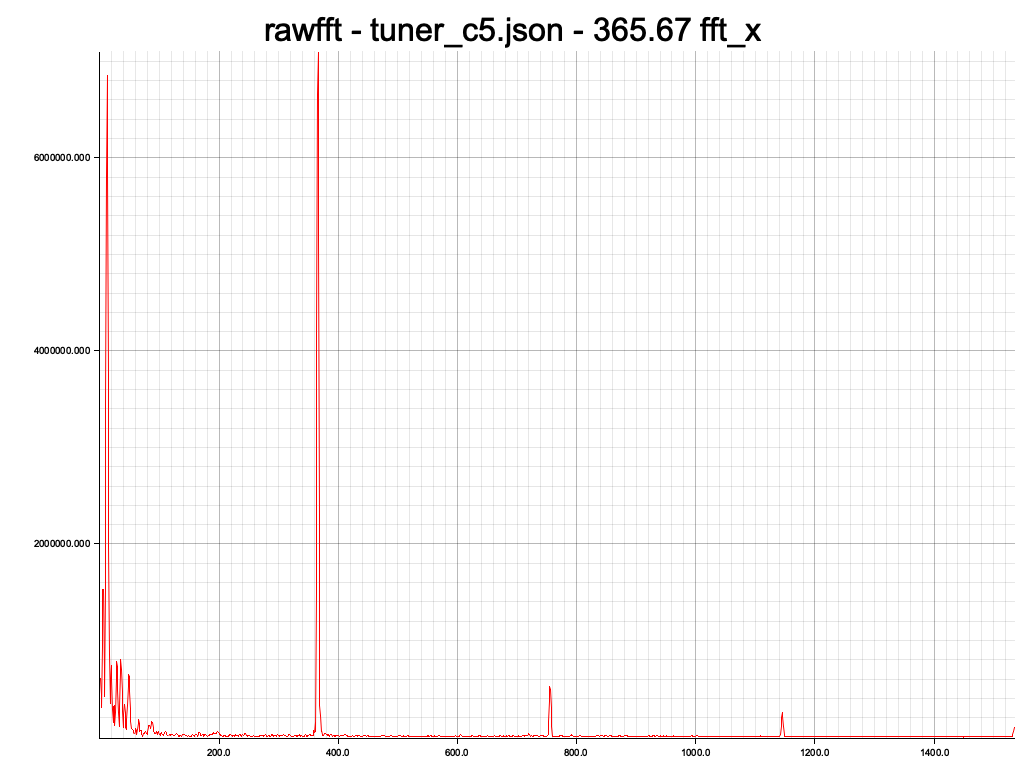
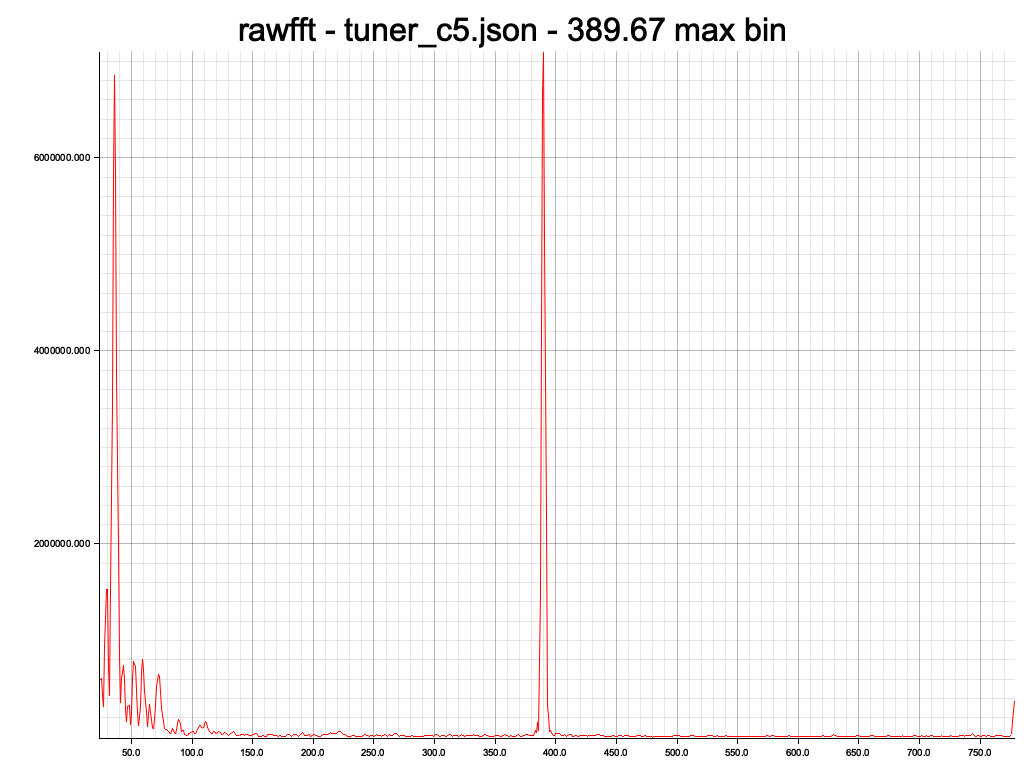
plotter works again

diff --git a/examples/spectrum_plot.rs b/examples/spectrum_plot.rs
@@ -1,33 +1,45 @@
+use std::ops::Range;
+
 use pitch_detector::{
     core::{fft_space::FftSpace, test_utils::test_signal, utils::sine_wave_signal},
-    pitch::{
-        autocorrelation::AutocorrelationDetector, cepstrum::PowerCepstrum, raw_fft::RawFftDetector,
-        PitchDetector, SignalToSpectrum,
-    },
+    pitch::{cepstrum::PowerCepstrum, raw_fft::RawFftDetector, PitchDetector, SignalToSpectrum},
 };
 use plotters::prelude::*;
 
 const TEST_FILE_SAMPLE_RATE: f64 = 44000.;
+pub const MAX_FREQ: f64 = 1046.50; // C6
+pub const MIN_FREQ: f64 = 32.7; // C1
 
 fn plot<D>(
-    detector: &D,
+    detector: &mut D,
     signal: &[f64],
-    fft_range: (usize, usize),
+    freq_range: Range<f64>,
+    sample_rate: f64,
     plot_name: &str,
-    fft_x: f64,
 ) -> anyhow::Result<()>
 where
     D: PitchDetector + SignalToSpectrum,
 {
-    let plot_title = format!("{} - {} - {:.2} fft_x", detector.name(), plot_name, fft_x);
+    let max_freq = detector
+        .detect(signal, sample_rate, Some(freq_range.clone()))
+        .ok_or(anyhow::anyhow!("No pitch"))?;
+    let max_bin = detector.freq_to_bin(max_freq, sample_rate);
+    let plot_title = format!(
+        "{} - {} - {:.2} max bin",
+        detector.name(),
+        plot_name,
+        max_bin
+    );
     let output_file = format!(
         "{}/test_data/results/{}.png",
         env!("CARGO_MANIFEST_DIR"),
         format!("{} - {}", detector.name(), plot_name)
     );
 
-    let y_vals: Vec<f64> = detector.signal_to_spectrum(signal, fft_range);
-    let x_vals: Vec<f64> = (0..y_vals.len()).map(|x| x as f64).collect();
+    let (start_bin, y_vals) = detector.signal_to_spectrum(signal, Some((freq_range, sample_rate)));
+    let x_vals: Vec<f64> = (start_bin..y_vals.len() + start_bin)
+        .map(|x| x as f64)
+        .collect();
     assert_eq!(
         x_vals.len(),
         y_vals.len(),
@@ -66,14 +78,13 @@ fn plot_detector_for_files<D: PitchDetector + SignalToSpectrum>(
 ) -> anyhow::Result<()> {
     for test_file in test_files {
         let test_signal = test_signal(test_file)?;
-        let mut fft_space = FftSpace::new(test_signal.len());
-        fft_space.init_with_signal(test_signal.iter());
-        let fft_range = detector.relevant_bin_range(fft_space.padded_len(), TEST_FILE_SAMPLE_RATE);
-        let fft_point_x = detector
-            .detect_max_bin_with_fft_space(fft_range, &mut fft_space)
-            .map(|p| p.x)
-            .ok_or(anyhow::anyhow!(""))?;
-        plot(&detector, &test_signal, fft_range, test_file, fft_point_x)?;
+        plot(
+            &mut detector,
+            &test_signal,
+            MIN_FREQ..MAX_FREQ,
+            TEST_FILE_SAMPLE_RATE,
+            test_file,
+        )?;
     }
     Ok(())
 }
@@ -85,17 +96,13 @@ fn plot_detector_for_freq<D: PitchDetector + SignalToSpectrum>(
     const TEST_FILE_SAMPLE_RATE: f64 = 44100.;
     const NUM_SAMPLES: usize = 16384;
     let test_signal = sine_wave_signal(NUM_SAMPLES, freq, TEST_FILE_SAMPLE_RATE);
-    let mut fft_space = FftSpace::new(test_signal.len());
-    fft_space.init_with_signal(test_signal.iter());
-    let fft_range = detector.relevant_bin_range(fft_space.padded_len(), TEST_FILE_SAMPLE_RATE);
-    let fft_point_x = detector
-        .detect_max_bin_with_fft_space(fft_range, &mut fft_space)
-        .map(|p| p.x)
-        .ok_or(anyhow::anyhow!(
-            "Failed to detect unscaled frequency with space"
-        ))?;
-    plot(&detector, &test_signal, fft_range, "A440", fft_point_x)?;
-    Ok(())
+    plot(
+        &mut detector,
+        &test_signal,
+        MIN_FREQ..MAX_FREQ,
+        TEST_FILE_SAMPLE_RATE,
+        "A440",
+    )
 }
 fn main() -> anyhow::Result<()> {
     let test_files = [
@@ -108,12 +115,12 @@ fn main() -> anyhow::Result<()> {
     ];
     // I'm not sure why the raw fft x values look wrong in the plot.
 
-    plot_detector_for_files(AutocorrelationDetector, &test_files)?;
-    plot_detector_for_files(PowerCepstrum, &test_files)?;
-    plot_detector_for_files(RawFftDetector, &test_files)?;
+    // plot_detector_for_files(AutocorrelationDetector, &test_files)?;
+    plot_detector_for_files(PowerCepstrum::default(), &test_files)?;
+    plot_detector_for_files(RawFftDetector::default(), &test_files)?;
 
-    plot_detector_for_freq(AutocorrelationDetector, 440.)?;
+    // plot_detector_for_freq(AutocorrelationDetector, 440.)?;
     // plot_detector_for_freq(PowerCepstrum, 440.)?;
-    plot_detector_for_freq(RawFftDetector, 440.)?;
+    plot_detector_for_freq(RawFftDetector::default(), 440.)?;
     Ok(())
 }

diff --git a/src/pitch.rs b/src/pitch.rs
@@ -1,11 +1,13 @@
-// pub mod autocorrelation;
 pub mod cepstrum;
 pub mod core;
 pub mod raw_fft;
 
+// autocorrelation doesn't work well enough yet.
+// pub mod autocorrelation;
+
 use std::ops::Range;
 
-use crate::core::{fft_space::FftSpace, utils::interpolated_peak_at};
+use crate::core::utils::interpolated_peak_at;
 
 use self::core::FftPoint;
 
@@ -46,17 +48,4 @@ pub trait SignalToSpectrum {
     fn freq_to_bin(&self, freq: f64, sample_rate: f64) -> f64;
 
     fn name(&self) -> &'static str;
-    // fn relevant_bin_range(&self, fft_space_len: usize, sample_rate: f64) -> (usize, usize);
-
-    // fn detect_max_bin(&mut self, signal: &[f64], bin_range: (usize, usize)) -> Option<FftPoint> {
-    //     let mut fft_space = FftSpace::new(signal.len());
-    //     fft_space.init_with_signal(signal);
-    //     self.detect_max_bin_with_fft_space(bin_range, &mut fft_space)
-    // }
-
-    // fn detect_max_bin_with_fft_space(
-    //     &mut self,
-    //     bin_range: (usize, usize),
-    //     fft_space: &mut FftSpace,
-    // ) -> Option<FftPoint>;
 }
